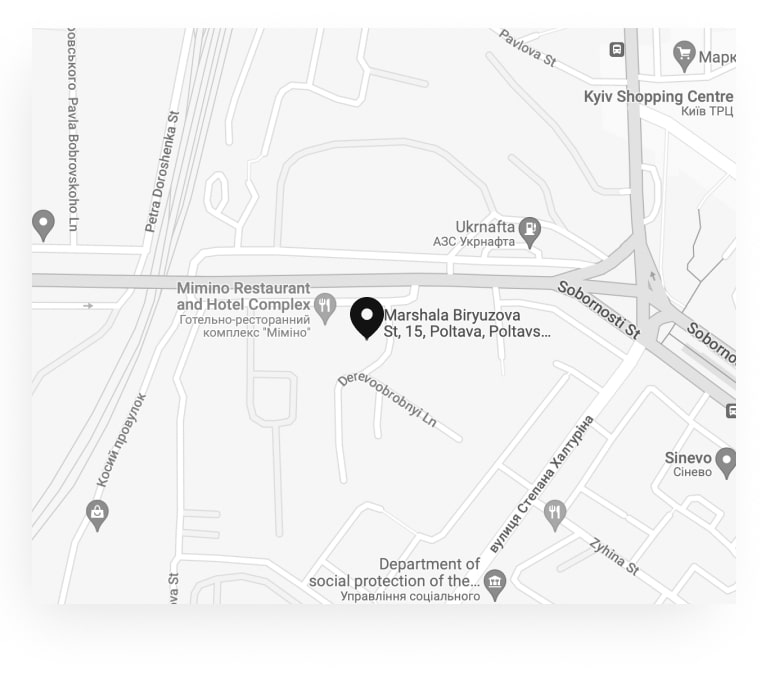
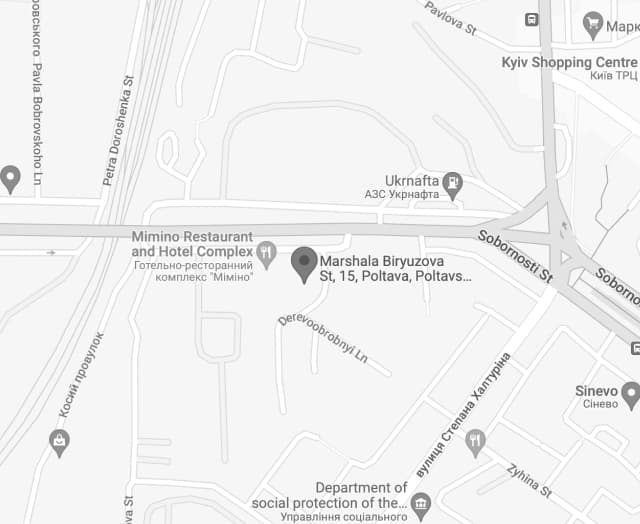
секція локація завершена

diff --git a/src/css/layout/location-contacts.css b/src/css/layout/location-contacts.css
@@ -1,96 +1,132 @@
-.location-text{
-font-weight: 500;
-font-size: 40px;
-line-height: 1.0;
-letter-spacing: -0.02em;
-text-transform: uppercase;
-margin-bottom: 32px;
-}
-.map-text-link{
-font-weight: 400;
-font-size: 18px;
-line-height: 1.33;
-letter-spacing: -0.02em;
-text-transform: uppercase;
-}
-.contacts-list-h3{
-font-weight: 500;
-font-size: 14px;
-line-height: 1.29;   
-letter-spacing: -0.02em;
-text-transform: uppercase;
-margin-bottom: 12px;     
-}
-.contacts-item{
-font-weight: 400;
-font-size: 14px;
-line-height: 1.29;   
-display: flex;
-align-items: center;
-letter-spacing: -0.02em;   
+.main-location-contacts {
+  padding-top: 64px;
+  padding-bottom: 64px;
 }
 
-@media (max-width: 767px){
-.contacts-list{
-margin-top: 28px;
+.location-text {
+  font-weight: 500;
+  font-size: 40px;
+  line-height: 1;
+  letter-spacing: -0.02em;
+  text-transform: uppercase;
+  margin-bottom: 32px;
 }
 
+.location-text-desc {
+  display: none;
+}
+
+.location-contacts {
+  margin-top: 32px;
+}
+
+.map-text-link {
+  font-weight: 400;
+  font-size: 18px;
+  line-height: 1.33;
+  letter-spacing: -0.02em;
+  text-transform: uppercase;
+}
+.contacts-list-h3 {
+  font-weight: 500;
+  font-size: 14px;
+  line-height: 1.29;
+  letter-spacing: -0.02em;
+  text-transform: uppercase;
+  margin-bottom: 12px;
+}
+.contacts-item {
+  font-weight: 400;
+  font-size: 14px;
+  line-height: 1.29;
+  display: flex;
+  align-items: center;
+  letter-spacing: -0.02em;
+}
+
+@media (max-width: 767px) {
+  .contacts-list {
+    margin-top: 28px;
+  }
 }
 @media (min-width: 768px) {
-.location-text{
-margin-bottom: 40px;
-}
-.location-contacts{
-display: flex;
-flex-wrap: wrap;
-margin-right: auto;
-}
-.contacts-list{
-margin-left: auto;
-margin-top: 0; 
-margin-bottom: 80px;  
-}
+  .location-text {
+    font-size: 68px;
+    margin-bottom: 40px;
+  }
+  .location-contacts {
+    display: flex;
+    flex-wrap: wrap;
+    margin-right: auto;
+    margin-top: 48px;
+  }
+  .contacts-item {
+    font-size: 18px;
+  }
+  .contacts-list {
+    margin-left: auto;
+    margin-top: 0;
+    margin-bottom: 80px;
+  }
 }
 @media (min-width: 1440px) {
-   
-.contacts-list{
-/* margin-right: 215px; */
-/* display: flex; */
-margin-left: 70px;
-}
-.contacts-list-h3{
-margin-bottom: 0;
-margin-right: 12px;  
-}
-.map-desktop{
-width: 640px;
-height: 524px;
-margin-left: 64px;
-margin-right: 32px;     
-} 
-.map-list{
- margin-left: auto; 
- /* margin-right: 70px;   */
-}
-.location-contacts{
-display: flex;
-margin-right: auto;
-flex-wrap: wrap;
-}
-.contacts-item{
-/* display:flex; */
-}
-.location-text{
-display: none;
-}
-.desktop{
-display:flex;
-margin-top: 100px;
-margin-bottom: 100px;
-}
-.contacts-desktop{
-display: flex;
-}
-.location-text-desktop{
-}
+  .contacts-list {
+    /* margin-right: 215px; */
+    /* display: flex; */
+    margin-left: 70px;
+  }
+
+  .location-text-desc {
+    display: flex;
+    font-weight: 500;
+    font-size: 68px;
+    line-height: 1;
+    letter-spacing: -0.02em;
+    text-transform: uppercase;
+    color: var(--brand-color);
+    margin-bottom: 403px;
+  }
+  .contacts-list-h3 {
+    margin-bottom: 0;
+    margin-right: 12px;
+    font-weight: 700;
+  }
+  .map-desktop {
+    width: 640px;
+    height: 524px;
+    margin-left: 64px;
+    margin-right: 32px;
+  }
+
+  .location-contacts {
+    display: flex;
+    margin-right: auto;
+    flex-wrap: wrap;
+  }
+  .contacts-item {
+    /* display:flex; */
+  }
+  .location-text {
+    display: none;
+  }
+  .location-desktop {
+    display: flex;
+    gap: 32px;
+  }
+  .contacts-desktop {
+    display: flex;
+    justify-content: space-between;
+  }
+  .location-desktop-right {
+  }
+
+  .contacts-list {
+    display: flex;
+    flex-wrap: wrap;
+    width: 205px;
+    justify-content: flex-end;
+  }
+
+  .location-text-desktop {
+  }
 }

diff --git a/src/partials/location-contacts.html b/src/partials/location-contacts.html
@@ -1,63 +1,66 @@
 <section class="main-location-contacts">
   <div class="container">
-    <div class="desktop">
+    <div class="location-desktop">
       <h2 class="location-text">location</h2>
-     <div class="picture-map">
-      <picture>
-        <source
-          srcset="
-            ./img/home/location/map-mob-1x.jpg 1x,
-            ./img/home/location/map-mob-2x.jpg 2x
-          "
-          media="(max-width: 767px)"
-        />
-        <source
-          srcset="
-            ./img/home/location/map-tab-1x.jpg 1x,
-            ./img/home/location/map-tab-2x.jpg 2x
-          "
-          media="(min-width: 768px)"
-        />
-        <source
-          srcset="
-            ./img/home/location/map-desk-1x.jpg 1x,
-            ./img/home/location/map-desk-2x.jpg 2x
-          "
-          media="(min-width: 1440px)"
-        />
+      <div class="picture-map">
+        <picture>
+          <source
+            srcset="
+              ./img/home/location/map-desk-1x.jpg 1x,
+              ./img/home/location/map-desk-2x.jpg 2x
+            "
+            media="(min-width: 1440px)"
+          />
+          <source
+            srcset="
+              ./img/home/location/map-tab-1x.jpg 1x,
+              ./img/home/location/map-tab-2x.jpg 2x
+            "
+            media="(min-width: 768px)"
+          />
+          <source
+            srcset="
+              ./img/home/location/map-mob-1x.jpg 1x,
+              ./img/home/location/map-mob-2x.jpg 2x
+            "
+            media="(max-width: 767px)"
+          />
+          <img
+            class="map-desktop"
+            src="./img/home/location/map-desk-1x.jpg"
+            alt="maps"
+          />
+        </picture>
+      </div>
 
-        <img class="map-desktop" src="./img/home/location/map-desk-1x.jpg" alt="maps" />
-      </picture>
+      <div class="location-desktop-right">
+        <h2 class="location-text-desc">location</h2>
+        <div class="location-contacts">
+          <ul class="map-list">
+            <li class="map-text">
+              <a
+                href="https://goo.gl/maps/Xy5tpD47ANPLoREp9"
+                target="_blank"
+                class="map-text-link link"
+                >Ukraine, Poltava,<br />St. Marshal Biryuzov, 15</a
+              >
+            </li>
+          </ul>
+          <ul class="contacts-list">
+            <h3 class="contacts-list-h3">call us:</h3>
+            <li class="contacts-item">
+              <a class="phone-number link" href="tel:+380955559533"
+                >(095) 555 95 33
+              </a>
+            </li>
+            <li class="contacts-item">
+              <a class="phone-number link" href="tel:+380668491089"
+                >(066) 849 10 89
+              </a>
+            </li>
+          </ul>
+        </div>
+      </div>
     </div>
-    <div class="location-contacts">
-      <ul class="map-list">
-        <li class="map-text">
-          <a
-            href="https://goo.gl/maps/Xy5tpD47ANPLoREp9"
-            target="_blank"
-            class="map-text-link link"
-
-            >Ukraine, Poltava,<br />St. Marshal Biryuzov, 15</a
-          >
-        </li>
-      </ul>
-      <ul class="contacts-list">
-        
-        <h3 class="contacts-list-h3">call us:</h3>
-        <li class="contacts-item">
-          <a class="phone-number link" href="tel:+380955559533"
-            >(095) 555 95 33
-          </a>
-        </li>
-        <li class="contacts-item">
-          <a class="phone-number link" href="tel:+380668491089"
-            >(066) 849 10 89
-          </a>
-        </li>
-      </ul>
-    </div>
-
-    </div>
-
   </div>
 </section>
